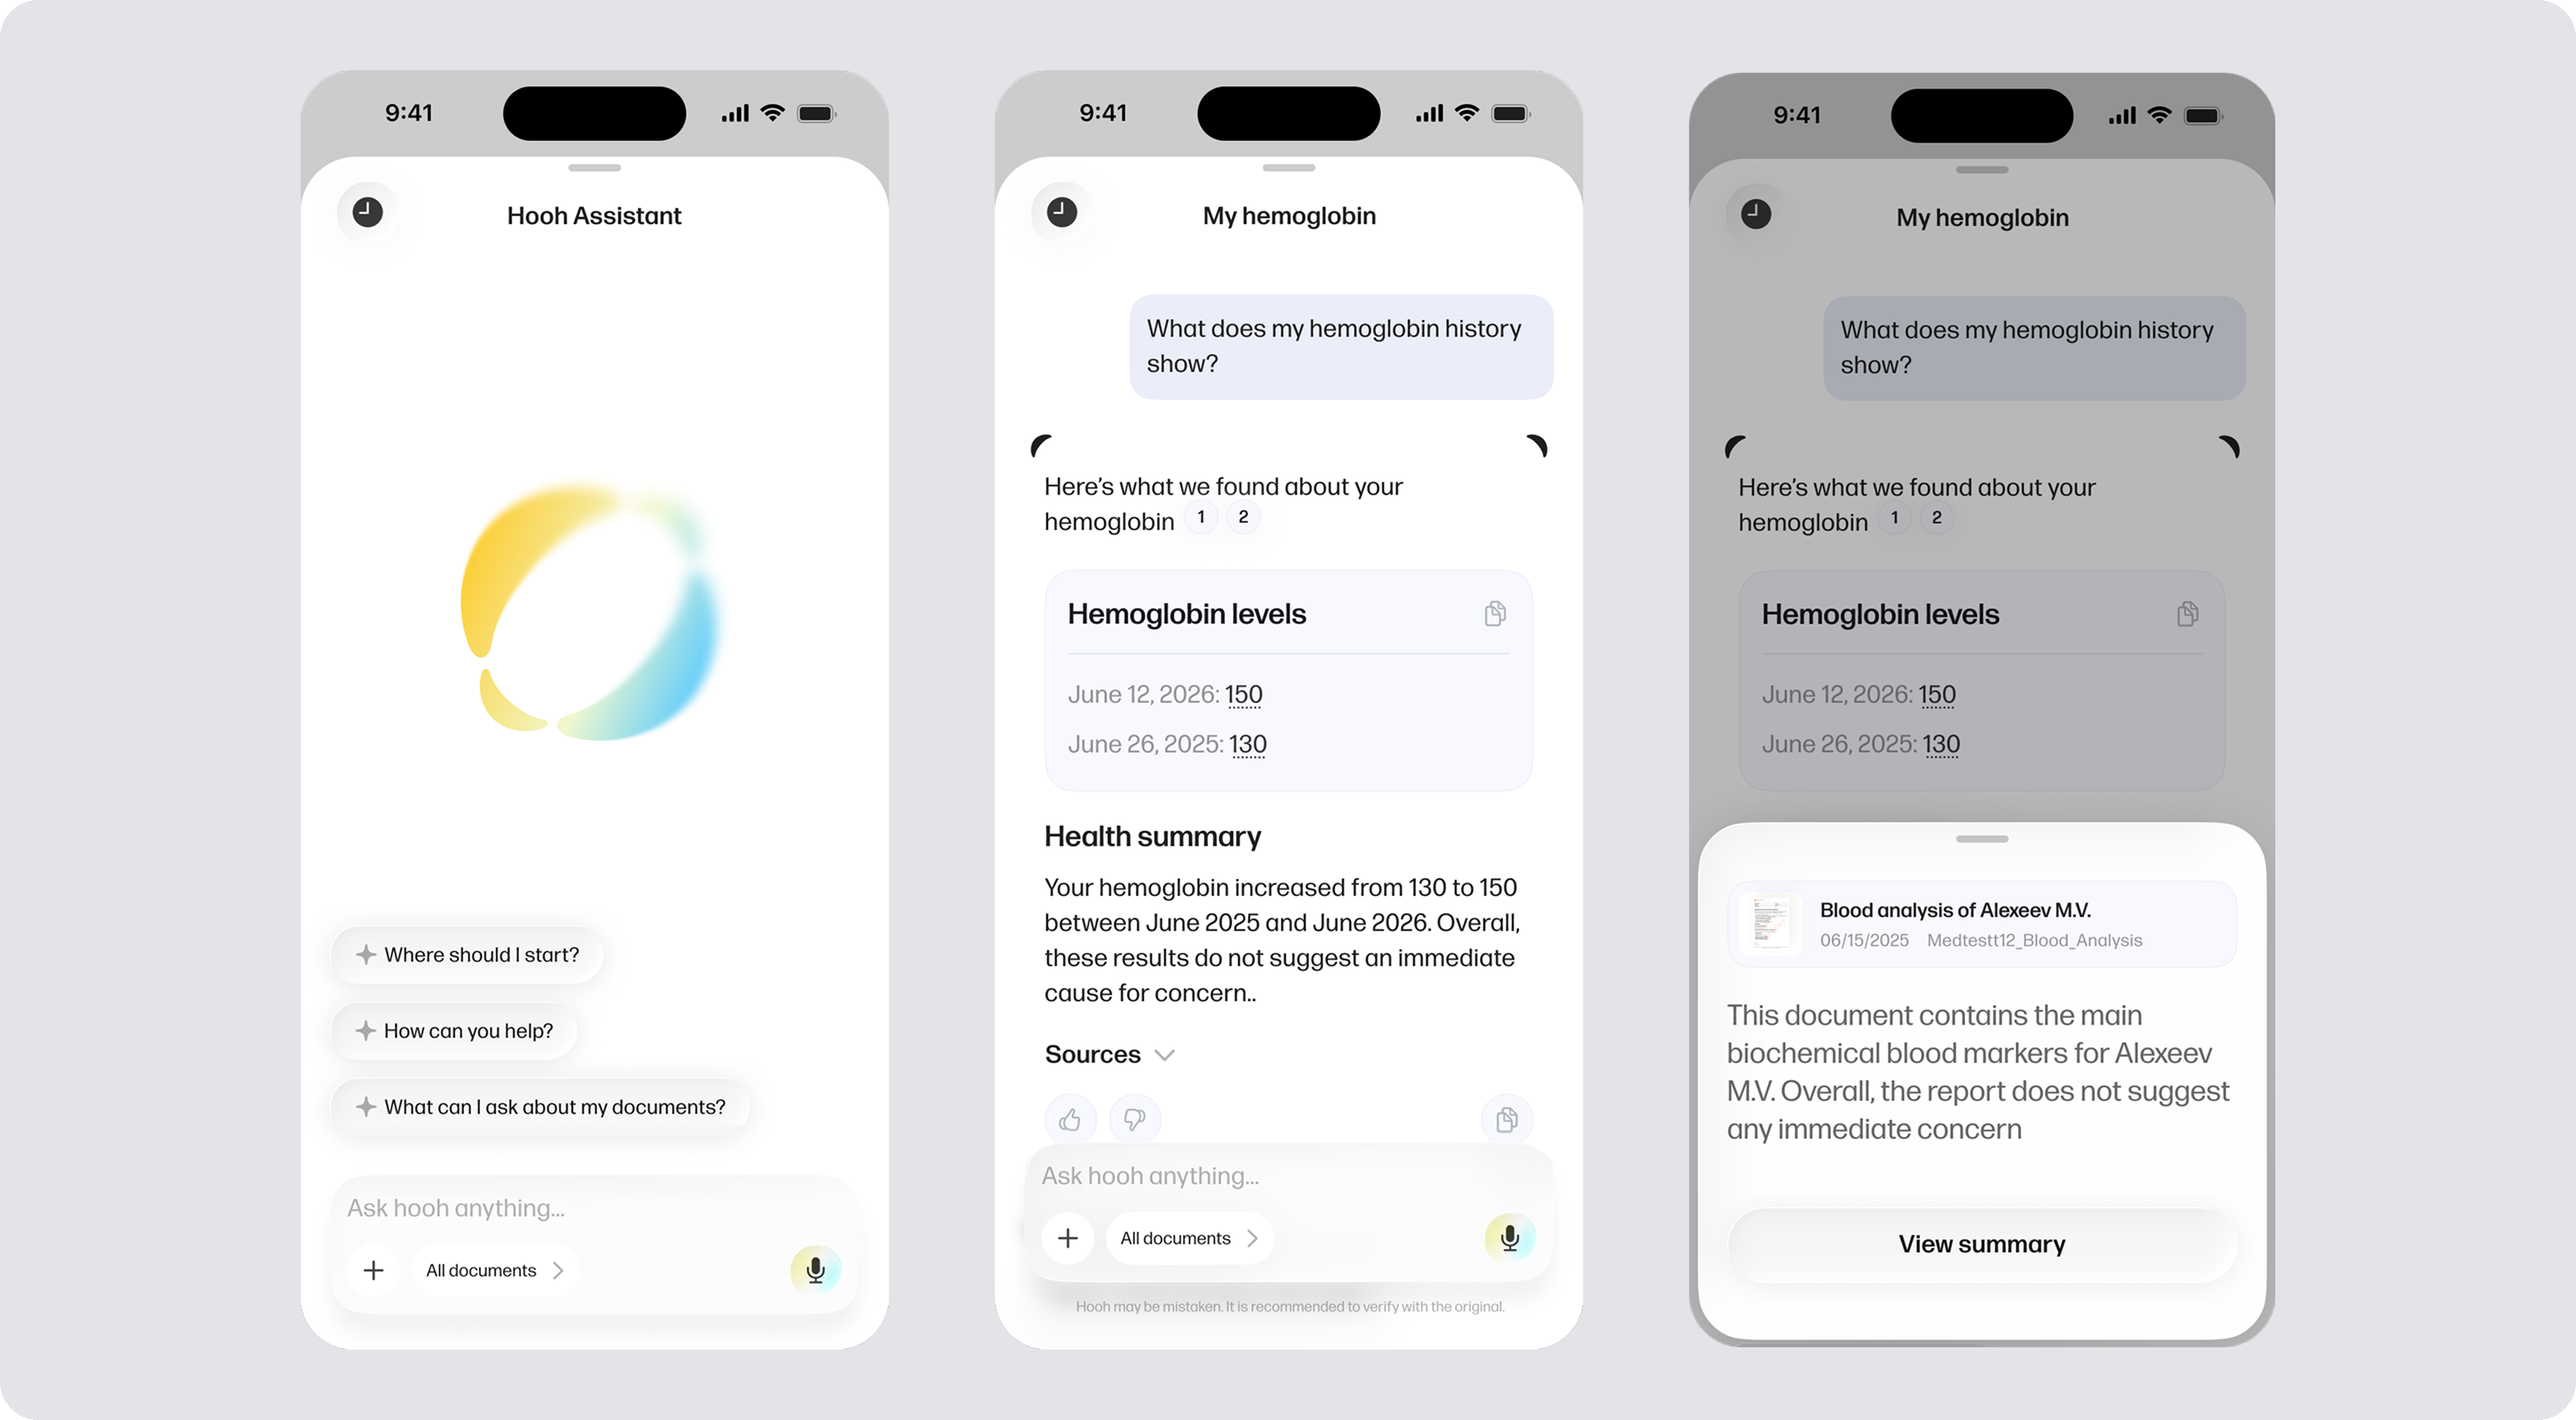
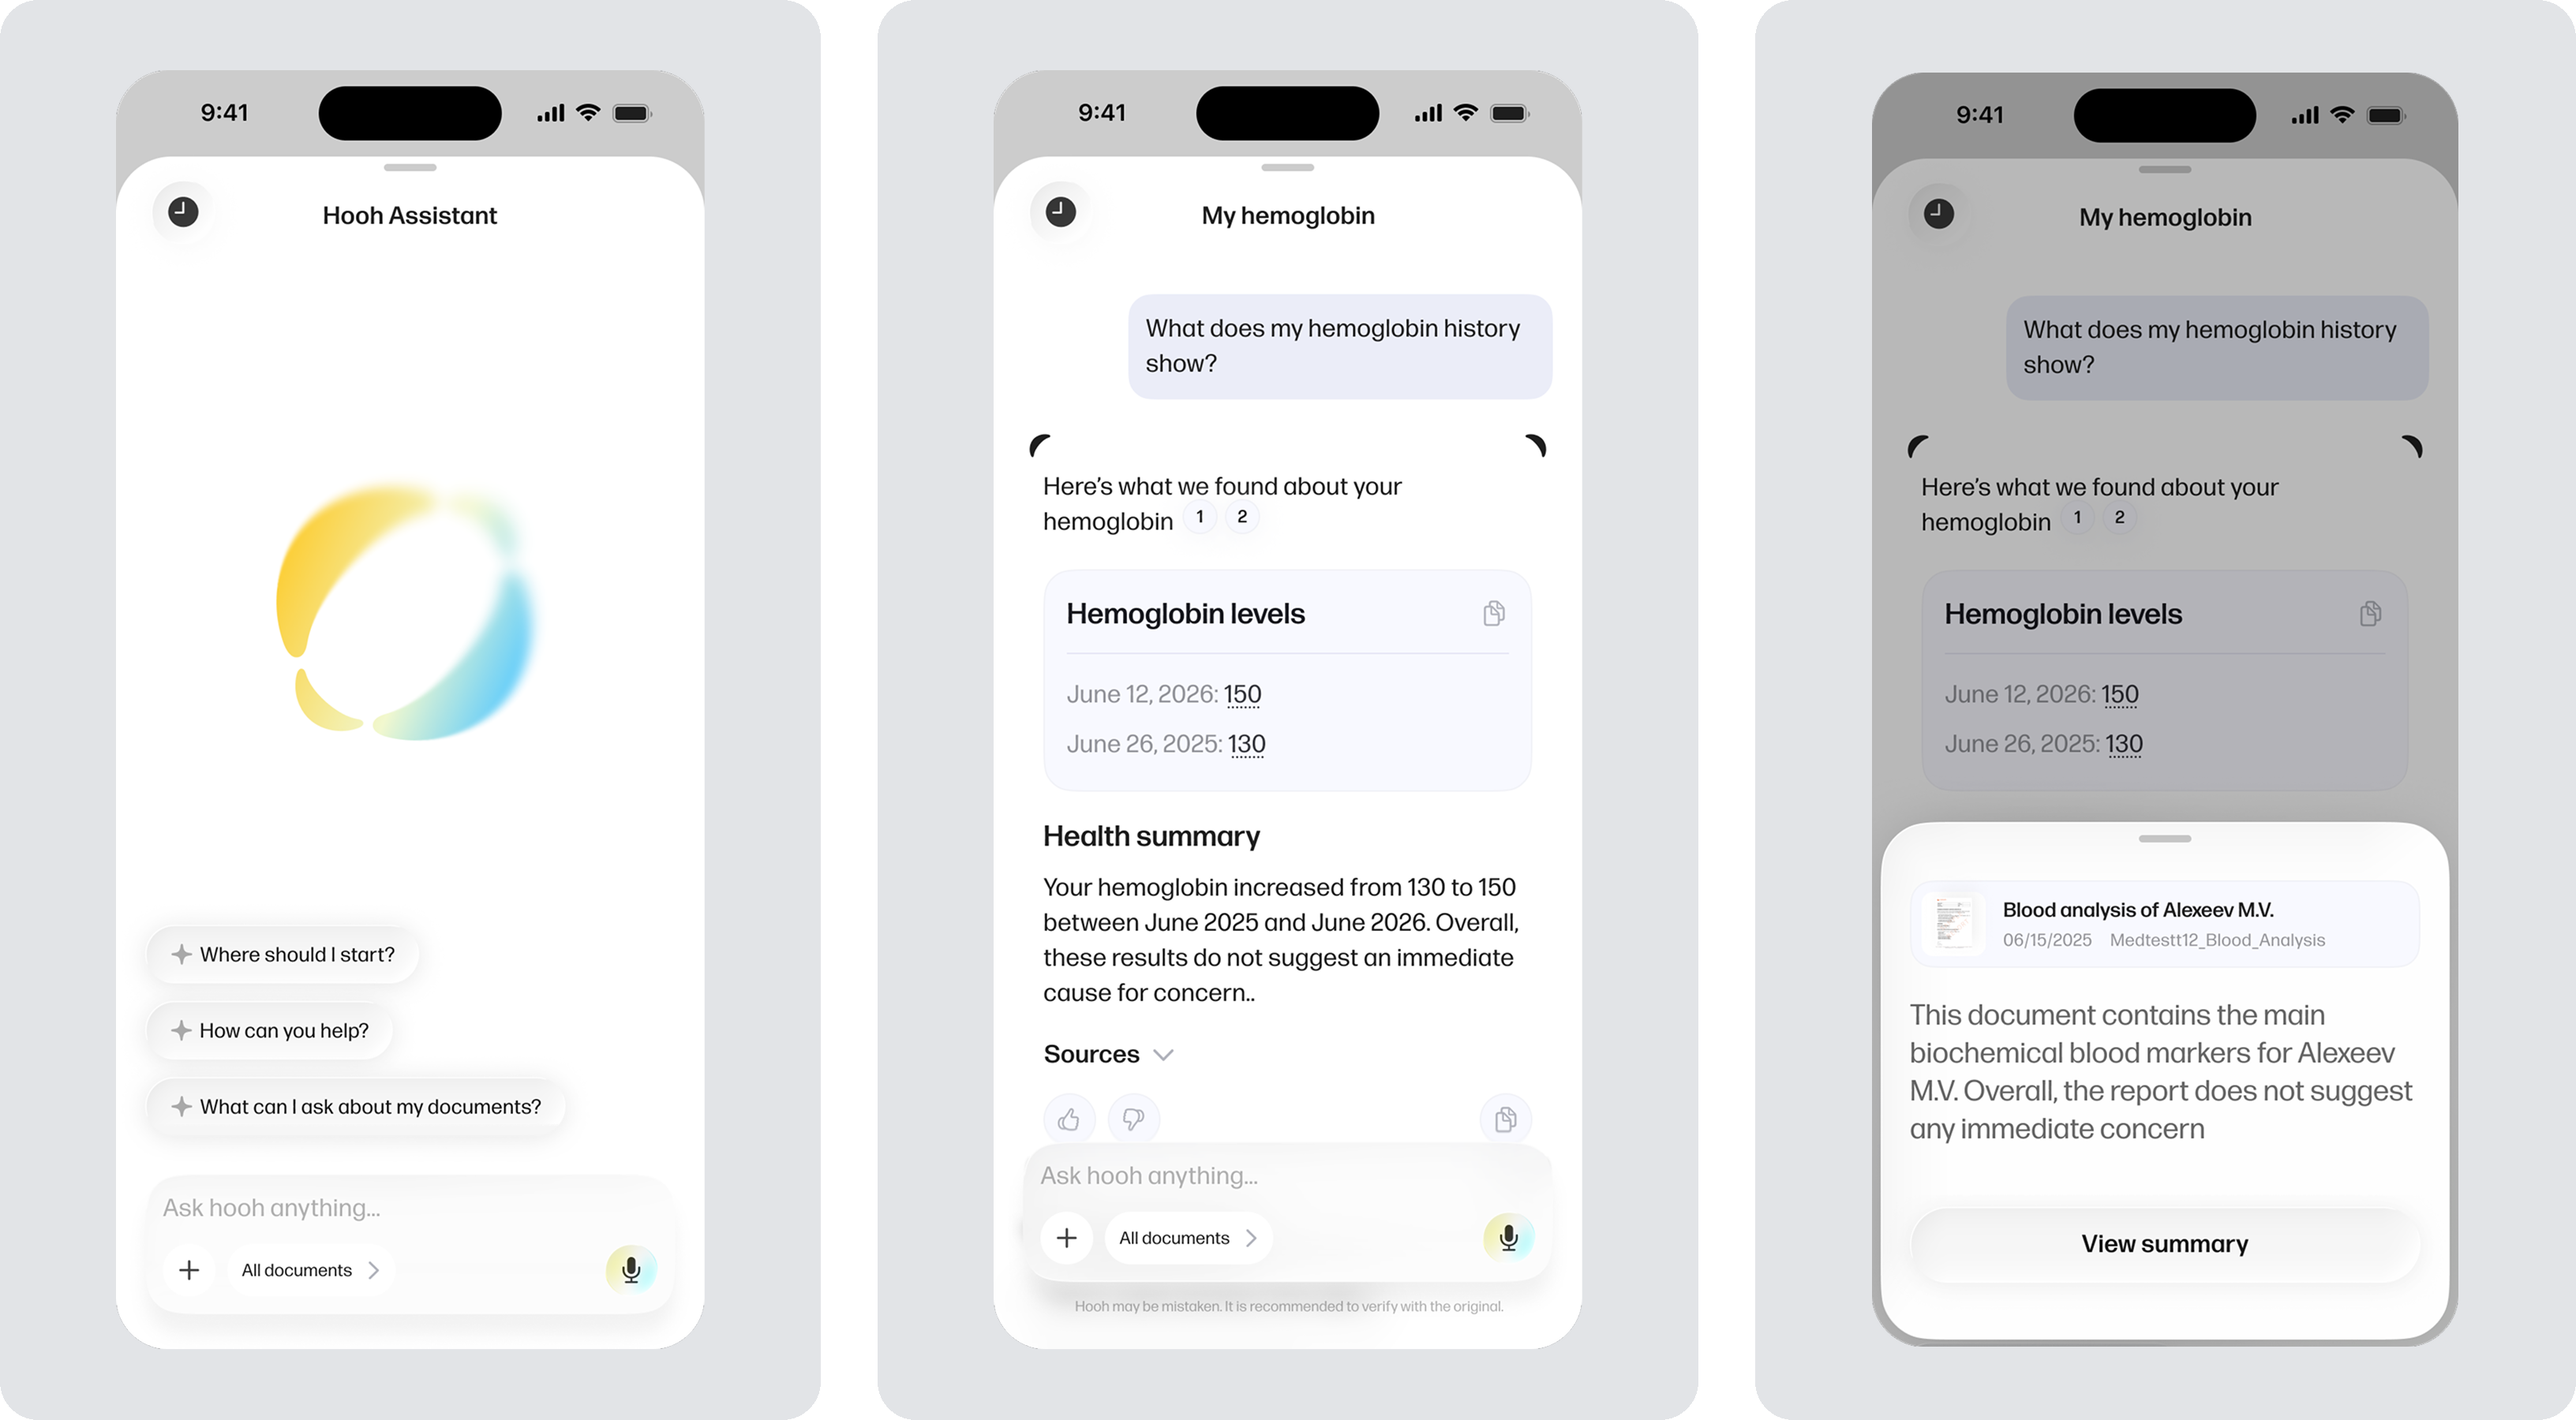
Hooh chatA: split into three rounded plates with gaps, matching uxB/uxC
The previous pass kept all three Assistant screens on one continuous
plate. Rebuild from the individual phone PNGs onto three separate gray
rounded plates separated by 72px gaps, so the rhythm matches uxB and
uxC.

diff --git a/hooh.html b/hooh.html
@@ -147,7 +147,7 @@
         <p class="case__section-body">The assistant uses uploaded documents as context, allowing users to ask follow-up questions, explore categories, and retrieve relevant information without manually scanning long text</p>
 
         <figure class="case__figure">
-          <picture><img src="assets/case-chatA.webp?v=2" alt="Three iOS Hooh Assistant screens — intro with suggested prompts, a hemoglobin history chat with sources and health summary, and the same chat with a Blood analysis document card" loading="lazy"></picture>
+          <picture><img src="assets/case-chatA.webp?v=3" alt="Three iOS Hooh Assistant screens — intro with suggested prompts, a hemoglobin history chat with sources and health summary, and the same chat with a Blood analysis document card" loading="lazy"></picture>
         </figure>
 
         <figure class="case__figure">
